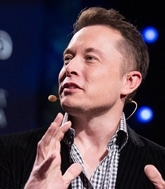
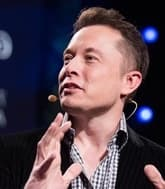
added styles of colony section (part two) && replaced several pictures with another format

diff --git a/source/index.html b/source/index.html
@@ -82,7 +82,7 @@
           пылевые бури, сильная эррозия почв.
         </p>
       </div>
-      <div class="information__paper paper">
+      <div class="information__paper">
         <h3 class="title-paper information__paper-title">Где это? Как туда доехать?</h3>
         <p class="information__paper-text">
           Расстояние до Марса — почти 56 миллионов километров.
@@ -201,95 +201,111 @@
     </section>
     <section class="colony">
       <h2 class="title title--red colony__title">Организация жизни&nbsp;в&nbsp;колонии</h2>
-      <ul class="same-list colony__list">
+      <ul class="same-list">
         <li class="colony__item">
-          <input class="visual-hidden colony__cell-radio" type="radio" name="life-organization" id="residence" value="residence"
-            checked>
-          <label class="colony__label" for="residence" aria-label="Проживание">
-            <svg class="colony__teacup" width="30" height="23">
-              <use xlink:href="#sprite-teacup"></use>
-            </svg>
-          </label>
-          <div class="colony__residence-photo"></div>
-          <div class="paper colony__paper">
-            <h3 class="paper__title">Проживание</h3>
-            <p class="text paper__text">
-              В основе жилых помещений лежат надувные компоненты — спальня, рабочая зона, гостиная, парник для
-              выращивания зелени — 50 м2 на человека. Благодаря этим компонентам, колонисты смогут принять душ,
-              приготовить свежую пищу, носить обычную одежду. Весь комплекс соединен сетью ходов.
-            </p>
+          <div class="colony__wrapper-content">
+            <input class="visual-hidden colony__cell-radio" type="radio" name="life-organization" id="residence" value="residence"
+              checked>
+            <label class="colony__label" for="residence" aria-label="Проживание">
+              <svg class="colony__teacup" width="30" height="23">
+                <use xlink:href="#sprite-teacup"></use>
+              </svg>
+              <p class="colony__name-paragraph">Проживание</p>
+            </label>
+            <div class="colony__wrapper-paragraph-content">
+              <span class="colony__photo colony__photo--residence"></span>
+              <h3 class="colony__title-paper title-paper">Проживание</h3>
+              <p class="colony__paper-text">
+                В основе жилых помещений лежат надувные компоненты — спальня,
+                рабочая&nbsp;зона,&nbsp;гостиная,&nbsp;парник&nbsp;для выращивания зелени — 50 м&#178; на человека.
+                Благодаря этим компонентам, колонисты смогут принять душ, приготовить свежую
+                пищу,&nbsp;носить&nbsp;обычную&nbsp;одежду.&nbsp;Весь комплекс соединен сетью ходов.
+              </p>
+              <a class="link colony__button" href="#">Подробнее</a>
+            </div>
           </div>
-          <a class="link colony__button" href="#">Подробнее</a>
         </li>
         <li class="colony__item">
-          <input class="visual-hidden colony__cell-radio" type="radio" name="life-organization" id="research-centers"
-            value="research-centers">
-          <label class="colony__label" for="research-centers" aria-label="Исследовательские центры">
-            <svg class="colony__helmet" width="26" height="19">
-              <use xlink:href="#sprite-helmet"></use>
-            </svg>
-          </label>
-          <div class="colony__research-centers-photo"></div>
-          <div class="paper colony__paper">
-            <h3 class="paper__title">Исследовательские центры</h3>
-            <p class="text paper__text">
-              Статья в процессе написания
-            </p>
+          <div class="colony__wrapper-content">
+            <input class="visual-hidden colony__cell-radio" type="radio" name="life-organization" id="research-centers"
+              value="research-centers">
+            <label class="colony__label" for="research-centers" aria-label="Исследовательские центры">
+              <svg class="colony__helmet" width="33" height="19">
+                <use xlink:href="#sprite-helmet"></use>
+              </svg>
+              <p class="colony__name-paragraph">Исследовательские центры</p>
+            </label>
+            <div class="colony__wrapper-paragraph-content">
+              <span class="colony__photo colony__photo--research-centers"></span>
+              <h3 class="colony__title-paper title-paper">Исследовательские центры</h3>
+              <p class="colony__paper-text">
+                Статья в процессе написания
+              </p>
+              <a class="link colony__button" href="#">Подробнее</a>
+            </div>
           </div>
-          <a class="link colony__button" href="#">Подробнее</a>
         </li>
         <li class="colony__item">
-          <input class="visual-hidden colony__cell-radio" type="radio" name="life-organization" id="study" value="study">
-          <label class="colony__label" for="study" aria-label="Исследования Марса">
-            <svg class="colony__microscope" width="22" height="31">
-              <use xlink:href="#sprite-microscope"></use>
-            </svg>
-          </label>
-          <div class="colony__study-photo"></div>
-          <div class="paper colony__paper">
-            <h3 class="paper__title">Исследования Марса</h3>
-            <p class="text paper__text">
-              Обнаружение на Земле метеоритов марсианского происхождения позволило исследовать химический состав
-              поверхности планеты. В настоящее время Марс по-прежнему находится под наблюдением наземных телескопов и
-              радиотелескопов, позволяющих исследовать поверхность планеты в широком диапазоне электромагнитных волн.
-              Дальнейший прогресс в исследовании Марса связан с продолжением исследования планеты дистанционно
-              управляемыми космическими аппаратами и осуществлением пилотируемого полёта на Марс.
-            </p>
+          <div class="colony__wrapper-content">
+            <input class="visual-hidden colony__cell-radio" type="radio" name="life-organization" id="study" value="study">
+            <label class="colony__label" for="study" aria-label="Исследования Марса">
+              <svg class="colony__microscope" width="22" height="31">
+                <use xlink:href="#sprite-microscope"></use>
+              </svg>
+              <p class="colony__name-paragraph">Исследования Марса</p>
+            </label>
+            <div class="colony__wrapper-paragraph-content">
+              <span class="colony__photo colony__photo--study"></span>
+              <h3 class="colony__title-paper title-paper">Исследования Марса</h3>
+              <p class="colony__paper-text">
+                Обнаружение на Земле метеоритов марсианского происхождения позволило исследовать химический состав
+                поверхности планеты. В настоящее время Марс по-прежнему находится под наблюдением наземных телескопов и
+                радиотелескопов, позволяющих исследовать поверхность планеты в широком диапазоне электромагнитных волн.
+                Дальнейший прогресс в исследовании Марса связан с продолжением исследования планеты дистанционно
+                управляемыми космическими аппаратами и осуществлением пилотируемого полёта на Марс.
+              </p>
+              <a class="link colony__button" href="#">Подробнее</a>
+            </div>
           </div>
-          <a class="link colony__button" href="#">Подробнее</a>
         </li>
         <li class="colony__item">
-          <input class="visual-hidden colony__cell-radio" type="radio" name="life-organization" id="photo" value="photo">
-          <label class="colony__label" for="photo" aria-label="Фотографии">
-            <svg class="colony__photo" width="25" height="21">
-              <use xlink:href="#sprite-photo"></use>
-            </svg>
-          </label>
-          <div class="colony__photo-photo"></div>
-          <div class="paper colony__paper">
-            <h3 class="paper__title">Фотографии</h3>
-            <p class="text paper__text">
-              У Вас будет огромное количество уникальных фотографий.
-            </p>
+          <div class="colony__wrapper-content">
+            <input class="visual-hidden colony__cell-radio" type="radio" name="life-organization" id="photo" value="photo">
+            <label class="colony__label" for="photo" aria-label="Фотографии">
+              <svg class="colony__camera" width="25" height="21">
+                <use xlink:href="#sprite-photo"></use>
+              </svg>
+              <p class="colony__name-paragraph">Фотографии</p>
+            </label>
+            <div class="colony__wrapper-paragraph-content">
+              <span class="colony__photo colony__photo--photo"></span>
+              <h3 class="colony__title-paper title-paper">Фотографии</h3>
+              <p class="colony__paper-text">
+                У Вас будет огромное количество уникальных фотографий.
+              </p>
+              <a class="link colony__button" href="#">Подробнее</a>
+            </div>
           </div>
-          <a class="link colony__button" href="#">Подробнее</a>
         </li>
         <li class="colony__item">
-          <input class="visual-hidden colony__cell-radio" type="radio" name="life-organization" id="plants" value="plants">
-          <label class="colony__label" for="plants" aria-label="Выращивание растений">
-            <svg class="colony__leaves" width="26" height="27">
-              <use xlink:href="#sprite-leaves"></use>
-            </svg>
-          </label>
-          <div class="colony__plants-photo"></div>
-          <div class="paper colony__paper">
-            <h3 class="paper__title">Выращивание растений</h3>
-            <p class="text paper__text">
-              Вы не будете скучать по своей даче, так как для того, чтобы выжить Вам нужно будет выращивать растения,
-              которые будут обеспечивать Вашу жизнь.
-            </p>
+          <div class="colony__wrapper-content">
+            <input class="visual-hidden colony__cell-radio" type="radio" name="life-organization" id="plants" value="plants">
+            <label class="colony__label" for="plants" aria-label="Выращивание растений">
+              <svg class="colony__leaves" width="28" height="27">
+                <use xlink:href="#sprite-leaves"></use>
+              </svg>
+              <p class="colony__name-paragraph">Выращивание растений</p>
+            </label>
+            <div class="colony__wrapper-paragraph-content">
+              <span class="colony__photo colony__photo--plants"></span>
+              <h3 class="colony__title-paper title-paper">Выращивание растений</h3>
+              <p class="colony__paper-text">
+                Вы не будете скучать по своей даче, так как для того, чтобы выжить Вам нужно будет выращивать растения,
+                которые будут обеспечивать Вашу жизнь.
+              </p>
+              <a class="link colony__button" href="#">Подробнее</a>
+            </div>
           </div>
-          <a class="link colony__button" href="#">Подробнее</a>
         </li>
       </ul>
     </section>

diff --git a/source/sass/blocks/colony.scss b/source/sass/blocks/colony.scss
@@ -2,4 +2,132 @@
   @include content;
   @include content-margin;
   padding-top: 49px;
+  padding-bottom: 70px;
+}
+
+.colony__wrapper-content {
+  overflow: hidden;
+}
+
+.colony__item {
+  position: relative;
+  padding-left: 28px;
+  padding-top: 30px;
+
+  &:last-of-type {
+    padding-top: 38px;
+  }
+
+  &:not(:last-of-type)::before {
+    position: absolute;
+    top: 48px;
+    left: 6px;
+    width: 3px;
+    height: 100%;
+    background-color: $red-color;
+    content: "";
+  }
+}
+
+.colony__label {
+  display: flex;
+  transition-duration: 0.3s;
+  transition-property: padding-left;
+  cursor: pointer;
+  padding-left: 8px;
+
+  &::before {
+    position: absolute;
+    top: 32px;
+    left: -1px;
+    width: 16px;
+    height: 16px;
+    background-color: $white-color;
+    border: 3px solid $red-color;
+    border-radius: 8px;
+    content: "";
+  }
+}
+
+.colony__item:last-of-type .colony__label::before {
+  top: 48px;
+}
+
+.colony__name-paragraph {
+  @include proxima-bold;
+  display: none;
+  font-size: 20px;
+  line-height: 20px;
+  color: $red-color;
+  margin-left: 16px;
+}
+
+.colony__wrapper-paragraph-content {
+  overflow: hidden;
+  transform: translateY(500px);
+  transition-duration: 0.6s;
+  transition-property: all;
+  max-height: 0;
+}
+
+.colony__cell-radio:checked + .colony__label {
+  padding-left: 0;
+}
+
+.colony__cell-radio:checked + .colony__label::before {
+  background-color: $red-color;
+}
+
+.colony__cell-radio:checked ~ .colony__label .colony__name-paragraph {
+  display: block;
+}
+
+.colony__cell-radio:checked ~ .colony__wrapper-paragraph-content {
+  transform: translateY(0);
+  max-height: 5000px;
+}
+
+.colony__photo {
+  display: inline-block;
+  background-repeat: no-repeat;
+  margin-top: 26px;
+
+  &--residence {
+    width: 262px;
+    height: 125px;
+    background-image: url("../img/residence-photo.jpg");
+    background-size: 262px 125px;
+  }
+}
+
+.colony__title-paper {
+  padding-top: 22px;
+}
+
+.colony__paper-text {
+  margin: 0;
+  padding-top: 13px;
+}
+
+.colony__button {
+  display: flex;
+  width: 160px;
+  color: $white-color;
+  background-color: $red-color;
+  border-radius: 23px;
+  transition-duration: 0.2s;
+  transition-property: font-size, font-weight;
+  min-height: 46px;
+  align-items: center;
+  justify-content: center;
+  margin-top: 32px;
+  margin-bottom: 14px;
+
+  &:hover {
+    font-size: 18px;
+  }
+
+  &:focus {
+    opacity: 0.7;
+  }
 }

diff --git a/source/sass/blocks/destination.scss b/source/sass/blocks/destination.scss
@@ -2,7 +2,7 @@
   color: $white-color;
   background-color: $crimson-color;
   background-image:
-    url("../img/Background1.png"),
+    url("../img/substrate-destination.jpg"),
     linear-gradient(to right, $crimson-dark 0%, $crimson-light 100%);
   background-repeat: no-repeat;
   background-position: top;

diff --git a/source/sass/blocks/questions.scss b/source/sass/blocks/questions.scss
@@ -1,7 +1,7 @@
 .questions {
   color: $white-color;
   background-color: $blue-dark;
-  background-image: url("../img/substrate-questions.png");
+  background-image: url("../img/substrate-questions.jpg");
   background-repeat: no-repeat;
   background-position: top;
   background-size: 320px 1309px;
